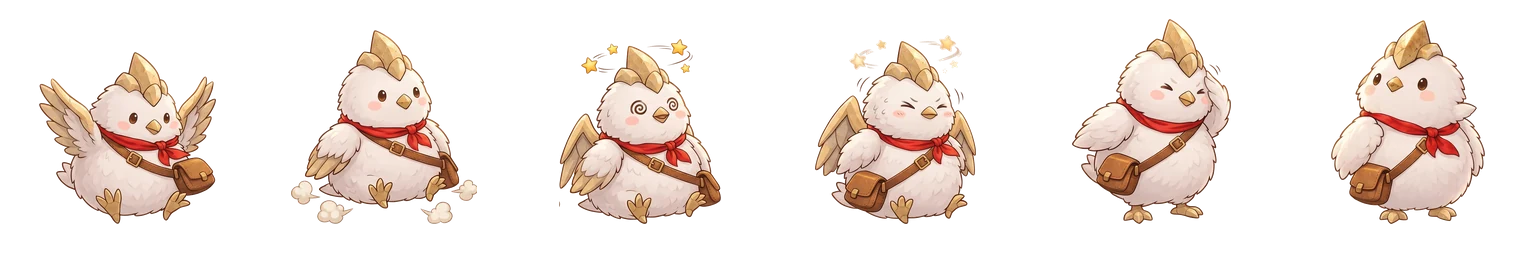
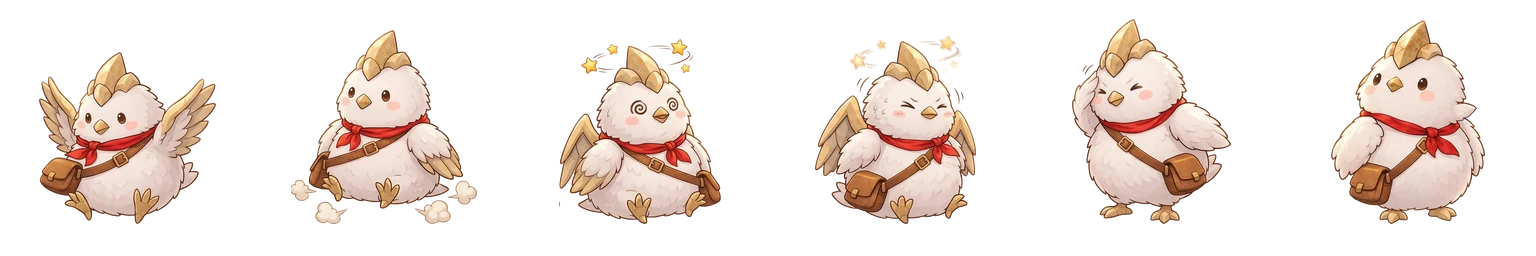
디펜스: 집기 동작 다듬기 — 버둥대는 느낌·끄는 방향 보기·쿵 효과·시트 방향 맞춤
- 들고 있을 때: 파닥임 85→45ms로 빠르게, 집힌 머리 위를 축으로 대롱대롱 흔들림·잔떨림, 떠 있는 높이 16→9(「나는 것 같다」 의견)
- 끄는 방향을 봄(오른쪽으로 끌면 오른쪽), 내려앉는 동안도 그 방향
- 내려놓을 때 쿵: 바닥 충격 고리 두 겹 + 모래빛 먼지 8개 + 닿는 순간 섬광(앞 0.32초)
- u01 「내려놓기」 1·2·5칸이 오른쪽을 보던 것 → 뒤집어 원본처럼 왼쪽(anim-sheet.py에 칸 뒤집기 인자)

Claude-Session: https://claude.ai/code/session_01HqpmXgLiQPu2fAbYSUYARd

Changed region(s): [[0.6875, 0.0625, 0.8125, 0.875], [0.0, 0.1875, 0.1562, 0.875], [0.1875, 0.125, 0.3125, 0.875]]

diff --git a/galmaegiman-confirmed/public/defense/defense.js b/galmaegiman-confirmed/public/defense/defense.js
@@ -908,8 +908,8 @@ cv.addEventListener('pointermove', (ev) => {
   // 끌기를 실시간으로(2026-11-12 사용자 요청): 끄는 동안 갈매미(고른 무리면 무리째)가 손가락을 바로 따라옴
   if (down.field && down.unit && down.moved && playing()) {
     if (!down.start) { const group = selected.includes(down.unit.uid) && selected.length > 1 ? selUnits() : [down.unit]; down.start = group.filter((u) => !u.lock).map((u) => [u.uid, u.tx, u.ty]); E.holdUnits(G, down.start.map(([uid]) => uid), true); }   // 집어 듦: 공격 멈춤
-    const dx = bp.x - down.x0, dy = bp.y - down.y0;
-    for (const [uid, x, y] of down.start) E.moveUnit(G, uid, x + dx, y + dy, true);
+    const dx = bp.x - down.x0, dy = bp.y - down.y0, mvx = bp.x - (down.lx ?? down.x0); down.lx = bp.x;
+    for (const [uid, x, y] of down.start) { E.moveUnit(G, uid, x + dx, y + dy, true); if (Math.abs(mvx) > 1.5) { const u = E.unitById(G, uid); if (u) u.dragDir = mvx > 0 ? 1 : -1; } }   // 끄는 방향 기억(그림만)
     return;
   }
   if (down.scroller && down.moved) down.scroller.scroll = Math.max(0, Math.min(down.scroller.maxScroll ?? 0, down.scroll0 - (p.y - down.sy0) / (wide ? WK : 1)));
@@ -1212,14 +1212,16 @@ function drawUnitShape(id, x0, y0, ring, lw, lock = false, ox = 0, oy = 0, zm = 
   if (flip) { ctx.save(); ctx.translate(x, 0); ctx.scale(-1, 1); ctx.translate(-x, 0); }   // 그림만 좌우로 뒤집음(발밑 고리·자물쇠는 그대로)
   if (anim && sheet) {   // 시트 한 칸(칸 높이 256 중 몸 약 204 → 평소 그림 높이 50·z에 맞춤)
     const S = 50 * z * 256 / 204;
+    if (anim.rot) { const py = y - 50 * z; ctx.save(); ctx.translate(x, py); ctx.rotate(anim.rot); ctx.translate(-x, -py); }   // 집힌 머리 위를 축으로 대롱대롱
     ctx.drawImage(sheet, anim.frame * 256, 0, 256, 256, x - S / 2, y - S * 224 / 256, S, S);
+    if (anim.rot) ctx.restore();
     if (flip) ctx.restore();
     if (lock) drawLockMark(x0 + 22 * usz(id), y0 - 2);
     return;
   }
   if (anim) {   // 시트 없는 유닛: 들면 좌우로 버둥, 내려놓으면 납작했다 펴짐
     ctx.save(); ctx.translate(x, y);
-    if (anim.kind === 'hold') ctx.rotate(Math.sin(performance.now() / 70) * 0.14);
+    if (anim.kind === 'hold') { ctx.translate(0, -50 * z); ctx.rotate(anim.rot ?? 0); ctx.translate(0, 50 * z); }
     else { const q = Math.min(1, anim.p * 2.2), sx = 1 + 0.18 * (1 - q), sy = 1 - 0.22 * (1 - q); ctx.scale(sx, sy); }
     ctx.translate(-x, -y);
     drawFit(im, x - 24 * z, y - 50 * z, 48 * z, 50 * z);
@@ -1238,6 +1240,19 @@ function drawUnitShape(id, x0, y0, ring, lw, lock = false, ox = 0, oy = 0, zm = 
   drawFit(im, x - 24 * z, y - 50 * z, 48 * z, 50 * z);
   if (flip) ctx.restore();
   if (lock) drawLockMark(x0 + 22 * usz(id), y0 - 2);
+}
+// 내려놓을 때 쿵(2026-11-16 사용자 요청): 납작한 충격 고리 두 겹 + 사방으로 튀었다 가라앉는 먼지. q 0→1
+function landFx(x, y, z, q) {
+  const a = 1 - q;
+  ctx.beginPath(); ctx.ellipse(x, y, (14 + q * 30) * z, (5 + q * 11) * z, 0, 0, Math.PI * 2); ctx.strokeStyle = `rgba(235,225,200,${0.75 * a})`; ctx.lineWidth = 3 * a + 1; ctx.stroke();
+  ctx.beginPath(); ctx.ellipse(x, y, (8 + q * 18) * z, (3 + q * 6) * z, 0, 0, Math.PI * 2); ctx.strokeStyle = `rgba(255,255,255,${0.5 * a})`; ctx.lineWidth = 1.5; ctx.stroke();
+  for (let i = 0; i < 8; i++) {
+    const an = (i / 8) * Math.PI * 2 + 0.3, d = (10 + q * 26) * z, h = Math.sin(q * Math.PI) * 9 * z * (0.6 + (i % 3) * 0.2);
+    const px = x + Math.cos(an) * d, py = y + Math.sin(an) * d * 0.38 - h, r = (6 - q * 3) * z * (0.8 + (i % 2) * 0.4);
+    ctx.beginPath(); ctx.arc(px, py, r, 0, Math.PI * 2); ctx.fillStyle = `rgba(196,182,156,${0.95 * a})`; ctx.fill();   // 먼지(회색 바닥에서도 보이게 모래빛)
+    ctx.beginPath(); ctx.arc(px - r * 0.3, py - r * 0.3, r * 0.55, 0, Math.PI * 2); ctx.fillStyle = `rgba(250,244,230,${0.85 * a})`; ctx.fill();   // 먼지 밝은 쪽
+  }
+  if (q < 0.3) { ctx.beginPath(); ctx.ellipse(x, y - 4 * z, 22 * z, 9 * z, 0, 0, Math.PI * 2); ctx.fillStyle = `rgba(255,250,235,${0.45 * (1 - q / 0.3)})`; ctx.fill(); }   // 닿는 순간 섬광
 }
 // 꾸밈 그리기: 날개·오라 아래쪽은 갈매미 뒤(cosBack), 반짝이·불티는 앞(cosFront). x·y는 발밑, z는 크기
 const rainbowHue = (seed) => (performance.now() / 14 + seed * 37) % 360;
@@ -1453,9 +1468,13 @@ function drawFieldInner() {
     const lf = lastShot.get(u.uid), face = !!lf && G.t - lf.t < 0.8 && lf.x1 > lf.x0 + 4;
     // 손으로 집기(2026-11-16): 들고 있으면 떠서 파닥임(반복), 내려놓으면 쿵 주저앉는 동작(한 번)
     const LT = E.RULES.landTime ?? 0.8, landP = u.landUntil > G.t ? 1 - (u.landUntil - G.t) / LT : -1;
-    const anim = u.held ? { kind: 'hold', frame: Math.floor(performance.now() / 85) % 6, p: 0 } : landP >= 0 ? { kind: 'land', frame: Math.min(5, Math.floor(landP * 6)), p: landP } : null;
-    if (u.held) { oy -= 16 * z; ox = 0; zm = 1; }
-    drawUnitShape(u.id, u.x, u.y, selSet.has(u.uid) ? '#ffffff' : col, selSet.has(u.uid) ? 3 : 2, u.lock, ox, oy, zm, face && !anim, anim);
+    // 2026-11-16 사용자 의견(나는 것 같음): 빠르게 버둥(45ms) + 집힌 머리 위를 축으로 흔들림·잔떨림, 끄는 방향을 봄
+    const tn = performance.now(), sw = Math.sin(tn / 130 + u.uid) * 0.16 + Math.sin(tn / 23 + u.uid * 3) * 0.035;
+    const anim = u.held ? { kind: 'hold', frame: Math.floor(tn / 45) % 6, p: 0, rot: sw } : landP >= 0 ? { kind: 'land', frame: Math.min(5, Math.floor(landP * 6)), p: landP } : null;
+    if (u.held) { oy -= 9 * z; ox = 0; zm = 1; }
+    const dragFace = (u.held || landP >= 0) && u.dragDir ? u.dragDir > 0 : null;   // 끄는 방향(오른쪽이면 오른쪽을 봄)
+    if (landP >= 0 && landP < 0.4 && !fxLite) landFx(u.x, u.y, z, landP / 0.4);   // 쿵: 바닥 충격 고리·먼지
+    drawUnitShape(u.id, u.x, u.y, selSet.has(u.uid) ? '#ffffff' : col, selSet.has(u.uid) ? 3 : 2, u.lock, ox, oy, zm, dragFace ?? (face && !anim), anim);
     if (cos) cosFront(cos, u.x + ox, u.y + oy, z * zm, u.uid);
     // 이름표(2026-11-15 사용자 요청): 상위(제한~영원)는 늘, 그 아래 등급은 웨이브가 지나며 차차 흐려짐
     // 커먼 5→10웨이브 · 언커먼 10→15 · 레어 15→20 · 에픽 20→25 · 전설·히든 25→30웨이브에 사라짐(배울 때만 도움, 후반엔 판이 깔끔하게)

diff --git a/galmaegiman-confirmed/public/defense/index.html b/galmaegiman-confirmed/public/defense/index.html
@@ -13,6 +13,6 @@
 <canvas id="game" aria-label="갈매미맨 랜덤 디펜스 게임 화면"></canvas>
 <p id="boot">불러오는 중…</p>
 <noscript><p>이 게임은 자바스크립트가 필요해요.</p></noscript>
-<script type="module" src="/defense/defense.js?v=4870c3551cb8"></script>
+<script type="module" src="/defense/defense.js?v=e1b066d57b2c"></script>
 </body>
 </html>
